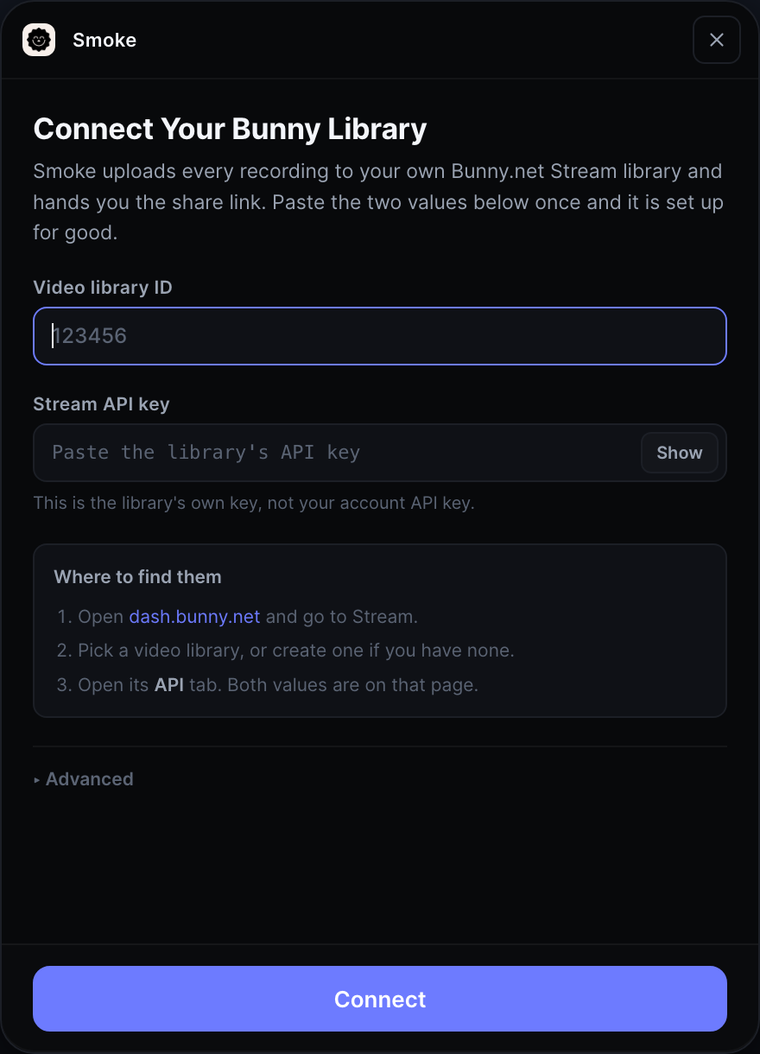
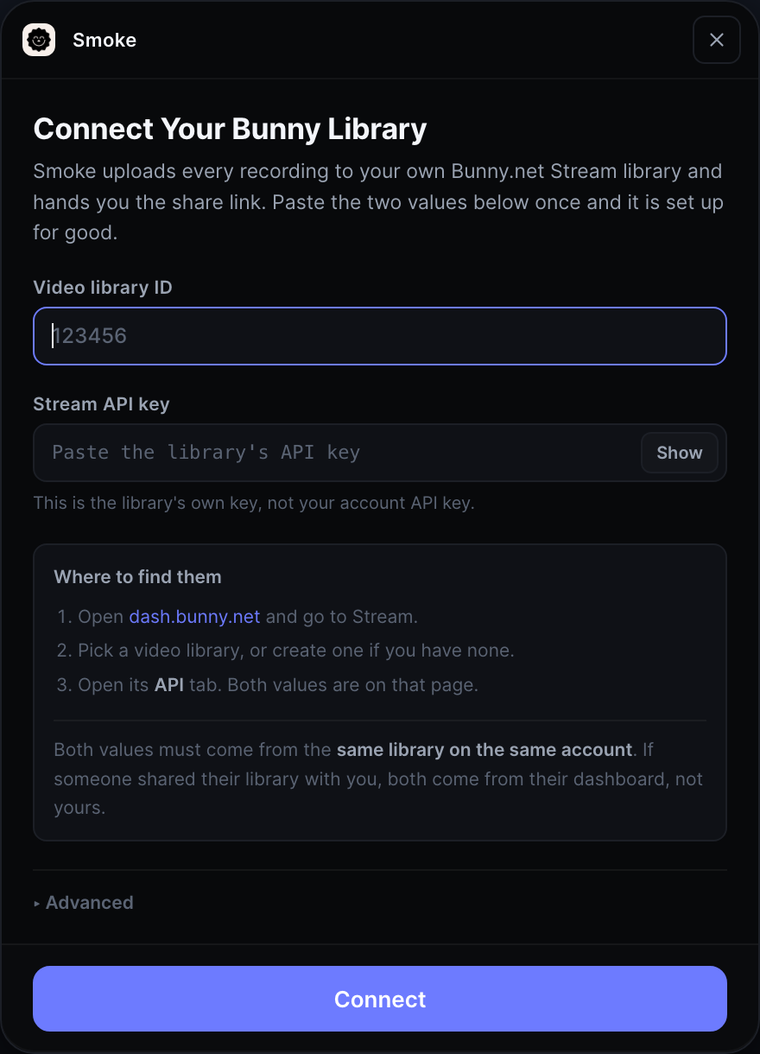
Setup: say which credential is actually wrong
The old message said the library ID and key "have to be from the same library"
and left you to work out which box to fix. Bunny answers 401 for four different
mistakes, so validate() now asks api.bunny.net which one it is before writing
the message.

A stream key works on video.bunnycdn.com and is rejected by api.bunny.net; an
account key is the exact opposite. That difference identifies the key we were
handed:

- account key pasted into the key box, with a library on that account: name the
  library and point at its API tab
- account key with a library the account does not have: list the libraries it
  does have, with their IDs
- a real library key that cannot reach this library: explain that a library key
  only works on its own library and its own account, which is what happens when
  two people share half a pair each

The probe key is used for that one request and never stored. The screen now
highlights only the box that is wrong, driven by validate()'s verdict rather
than by re-reading the message text, and says up front that both values have to
come from the same library on the same account.

Changed region(s): [[0.0605, 0.6983, 0.9382, 0.7894], [0.0605, 0.8501, 0.1816, 0.8805]]

diff --git a/main/bunny.js b/main/bunny.js
@@ -162,6 +162,39 @@ async function waitUntilPlayable(guid, { timeoutMs = 10 * 60 * 1000, onTick } = 
   );
 }
 
+/* Bunny has two different APIs with two different kinds of key, and mixing
+   them up is the single most common setup mistake. A stream key works on
+   video.bunnycdn.com and is rejected by api.bunny.net; an account key is the
+   exact opposite. Asking api.bunny.net therefore tells us which one we were
+   handed, so the error can name the actual problem instead of shrugging.
+
+   The key is used for this one request and never stored. */
+function probeAccountKey(apiKey) {
+  return new Promise((resolve) => {
+    const req = https.request({
+      host: 'api.bunny.net',
+      path: '/videolibrary?page=1&perPage=100',
+      method: 'GET',
+      timeout: 12_000,
+      headers: { AccessKey: apiKey, accept: 'application/json' },
+    }, (res) => {
+      let data = '';
+      res.on('data', (c) => { data += c; });
+      res.on('end', () => {
+        if (res.statusCode !== 200) return resolve(null);
+        try {
+          const parsed = JSON.parse(data);
+          const items = Array.isArray(parsed) ? parsed : (parsed.Items || []);
+          resolve(items.map((x) => ({ id: x.Id, name: x.Name })));
+        } catch (_) { resolve(null); }
+      });
+    });
+    req.on('error', () => resolve(null));
+    req.on('timeout', () => { req.destroy(); resolve(null); });
+    req.end();
+  });
+}
+
 /* ---------------- credential setup ----------------
    Used by the first run screen, before these credentials are adopted as the
    app's own. GET /library/{id} is the cheapest call that proves both the
@@ -179,13 +212,36 @@ async function validate({ libraryId, apiKey }) {
     return { ok: true, videoCount: info.videoCount || 0 };
   } catch (e) {
     const msg = String(e.message || '');
-    /* Bunny answers 401 both for a bad key AND for a key that belongs to a
-       different library, so the message must not blame one field: pointing at
-       the key alone sends people hunting through the wrong box. */
+    /* Bunny answers 401 for a bad key, for the wrong kind of key, AND for a
+       key belonging to a different library or a different account. Guessing
+       between those sends people hunting through the wrong box, so ask which
+       it actually is before writing the message. */
     if (msg.includes('(401)') || msg.includes('(403)') || msg.includes('(404)')) {
+      const libraries = await probeAccountKey(key);
+
+      if (libraries) {
+        /* It authenticated against the account API, so this is an account key,
+           not a library key. We know their real libraries now, so say so. */
+        const mine = libraries.find((l) => String(l.id) === id);
+        const list = libraries.length
+          ? libraries.map((l) => `${l.id} (${l.name})`).join(', ')
+          : 'none yet';
+        return {
+          ok: false,
+          error: mine
+            ? `That is your account API key, not the library key. Open library ${id} "${mine.name}" in the Bunny dashboard, go to its API tab, and copy the key shown there instead.`
+            : `That is your account API key, not a library key, and this account has no library ${id}. Your libraries are: ${list}. Open the one you want, go to its API tab, and copy its ID and key from there.`,
+          kind: 'account-key',
+        };
+      }
+
+      /* A real library key, just not one that can reach this library. Almost
+         always a library ID from one Bunny account paired with a key from
+         another, which is what happens when two people share half of each. */
       return {
         ok: false,
-        error: `Bunny would not accept library ${id} with that key. They have to be from the same library: open it in the Bunny dashboard, go to API, and copy both values from that page.`,
+        error: `That key is not valid for library ${id}. A library key only works on the library it came from, and only on that Bunny account. If somebody shared this library with you, you need the key from THEIR dashboard. If you meant to use your own library, change the ID above to yours.`,
+        kind: 'wrong-library',
       };
     }
     if (/did not respond|ENOTFOUND|ECONNREFUSED|ETIMEDOUT/i.test(msg)) {

diff --git a/renderer/setup.html b/renderer/setup.html
@@ -53,6 +53,7 @@
   .steps a { color: var(--accent); cursor: pointer; text-decoration: none; }
   .steps a:hover { text-decoration: underline; }
   .steps ol { margin: 2px 0 0 14px; display: flex; flex-direction: column; gap: 3px; }
+  .steps .both { margin-top: 8px; padding-top: 8px; border-top: var(--hairline); }
 
   /* status: never colour alone, every state carries an icon and words */
   .status {
@@ -134,6 +135,11 @@
         <li>Pick a video library, or create one if you have none.</li>
         <li>Open its <b>API</b> tab. Both values are on that page.</li>
       </ol>
+      <div class="both">
+        Both values must come from the <b>same library on the same account</b>.
+        If someone shared their library with you, both come from their
+        dashboard, not yours.
+      </div>
     </div>
 
     <details class="adv">

diff --git a/renderer/setup.js b/renderer/setup.js
@@ -59,7 +59,11 @@ async function connect() {
   if (!res.ok) {
     busy(false);
     status('err', res.error);
-    if (/library ID should be numbers|Enter your library/i.test(res.error)) els.lib.classList.add('bad');
+    /* Point at the box that is actually wrong. validate() works out which one
+       it is, so trust its verdict rather than re-reading the message here. */
+    if (res.kind === 'account-key') els.key.classList.add('bad');
+    else if (res.kind === 'wrong-library') { els.lib.classList.add('bad'); els.key.classList.add('bad'); }
+    else if (/library ID should be numbers|Enter your library/i.test(res.error)) els.lib.classList.add('bad');
     else if (/Enter your Stream API key/i.test(res.error)) els.key.classList.add('bad');
     else { els.lib.classList.add('bad'); els.key.classList.add('bad'); }
     return;
